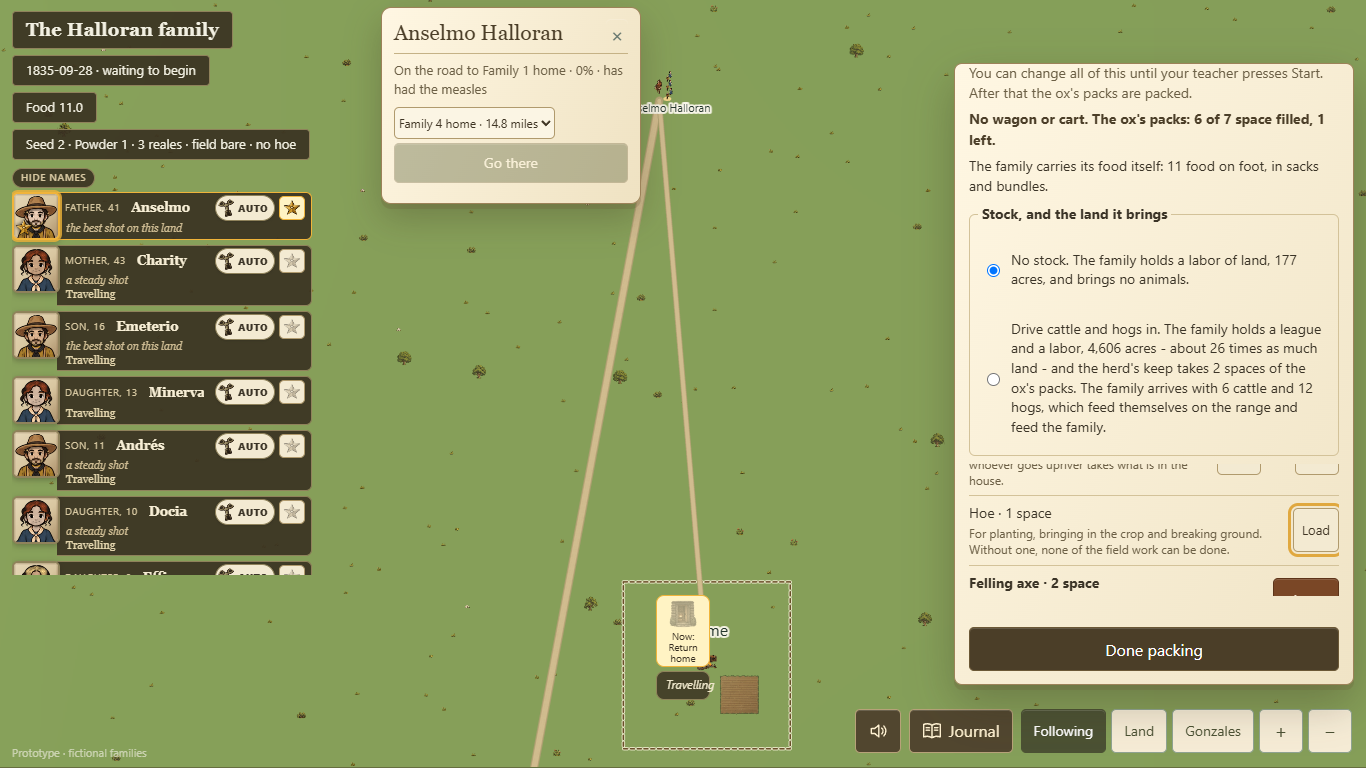
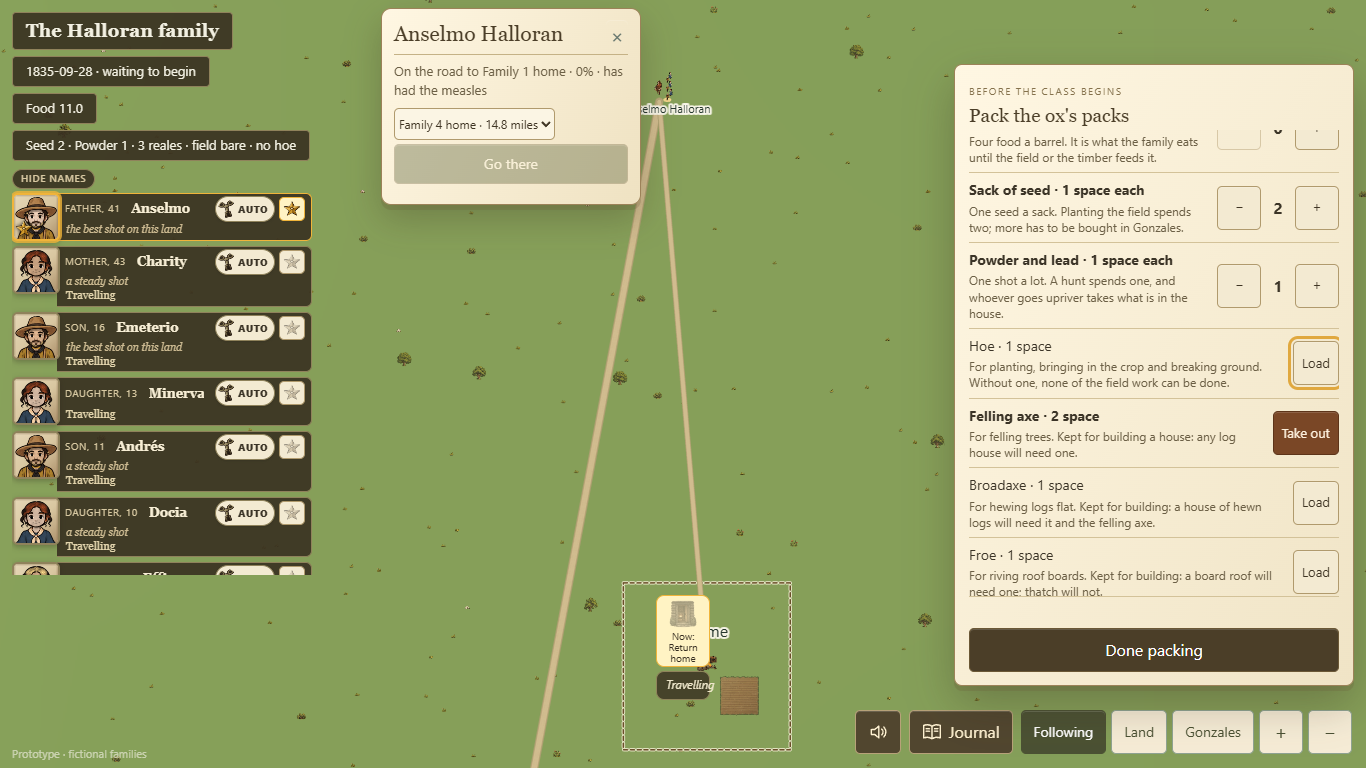
Done packing back on its own card: the wagon's middle scrolls, not the whole card
npm run test:creation-screen failed at 1366x768 with Done packing 58px below the
card's fold (also on v2026.09.29.1). The overlap work (d29a4ff3) made the whole
wagon card scroll on screens over 760px, with the list held at 132px inside it.
The words, stock choice and load now scroll together in #wagon-body; the heading,
refusal line and Done packing stay in the card's foot. Card place and size unchanged.

The proof's title heading follows the 2026-09-27 redesign (d08e28c1): "Who will
your family be?". That stale heading had been failing the proof at its first step
and hid the wagon regression.

diff --git a/public/style.css b/public/style.css
@@ -548,7 +548,11 @@ body[data-panel=true] #house-plan,body[data-panel=true] #house-plot{z-index:13}
 #wagon-load p{margin:6px 0 0;font-size:14px;line-height:1.45}
 #wagon-room{font-weight:650;color:#4b3e28}
 #wagon-load>*{flex:none}
-#wagon-items{list-style:none;margin:8px 0 0;padding:0;overflow-y:auto;min-height:0;flex:1 1 auto}
+/* One scroller, between the title and the foot: the words, the stock choice and the load scroll together, and the refusal
+   line and "Done packing" stay on the card at every size. The whole card scrolling put Done 58px below its own fold at
+   1366x768 (npm run test:creation-screen, 2026-09-29); the list scrolling alone was squeezed to nothing at 1280x689. */
+#wagon-load>#wagon-body{flex:1 1 auto;min-height:0;overflow-y:auto;overscroll-behavior:contain;border-bottom:1px solid #d3c299}
+#wagon-items{list-style:none;margin:8px 0 0;padding:0}
 #wagon-items li{display:grid;grid-template-columns:1fr auto;gap:2px 10px;align-items:center;padding:7px 0;border-top:1px solid #d3c299}
 #wagon-items li[data-loaded=true] .wagon-name{font-weight:650}
 .wagon-name{font-size:14px;color:#3b3427}
@@ -1261,10 +1265,8 @@ body[data-creating=true] #away>button{min-height:50px;background:#355243;border-
   body[data-lesson=true] #call-menu{max-height:min(62vh,520px,calc(100% - 18px - var(--lesson-room,116px) - var(--right-foot,74px)))}
   /* Packing the wagon stood over the whole family and the status lines above it - the food and the seed it is packed
      against. The lobby has nothing else down the right. */
-  #wagon-load{left:auto;right:12px;top:64px;max-height:calc(100% - 72px - var(--right-foot,74px));overflow-y:auto}
-  /* Short, the panel scrolls as a whole and keeps a few rows of the load in sight: its list was squeezed to nothing and
-     "Done packing" cut off below the fold at 1280x689 (overflow hidden, no scroll). */
-  #wagon-items{min-height:132px}
+  #wagon-load{left:auto;right:12px;top:64px;max-height:calc(100% - 72px - var(--right-foot,74px))}
+  /* Short, the card does not scroll as a whole: `#wagon-body` scrolls inside it and "Done packing" keeps its foot. */
   /* The walk-through stands above the bar, not across its right-hand icons (1024x600). */
   #tutorial{bottom:calc(var(--bar-room,132px) + 8px)}
   /* The small print about the map, from under the map's buttons (they reach the middle at 1024) to the bottom left, which

diff --git a/public/index.html b/public/index.html
@@ -404,6 +404,10 @@
            said all along ("more has to be bought in Gonzales"). What cannot be bought back is the things for the house.
            And the panel never said the choice closes the moment the teacher presses Start (`wagonProjection` sends
            nothing once the class runs). Both corrected 2026-09-21. -->
+      <!-- Everything between the title and Done packing scrolls here, and only here: the heading, the refusal line and the
+           button stay put, so "Done packing" is on the card as it opens at every size (2026-09-29; the whole card
+           scrolled and put it 58px below its own fold at 1366x768). -->
+      <div id="wagon-body">
       <p id="wagon-load-text">What you load is what the family arrives with. Tools, seed and powder can be bought in a
         town later, if there is coin; the things for the house cannot be bought anywhere.</p>
       <p id="wagon-when">You can change all of this until your teacher presses Start. After that the wagon is packed.</p>
@@ -418,6 +422,7 @@
         <p id="wagon-stock-why" role="alert"></p>
       </fieldset>
       <ul id="wagon-items"></ul>
+      </div>
       <p id="wagon-note" role="alert"></p>
       <button type="button" id="wagon-done">Done packing</button>
     </section>

diff --git a/HANDOFF.md b/HANDOFF.md
@@ -1,5 +1,32 @@
 # Claude handoff — Astra foundation
 
+## "Done packing" back on its own card at 1366x768, and the creation-screen proof green again — 2026-09-29 (not released)
+
+Branch `wagon-done-fold` off origin/main (3dd5209d); not pushed. `npm run test:creation-screen` failed at 1366x768 - *"the
+button that ends the wagon at 1366x768 step is below the fold of its own card: #wagon-done "Done packing" is 58px past it"* -
+and on the released v2026.09.29.1 too.
+
+- **Cause.** The overlap work (d29a4ff3, 2026-09-28) moved packing the wagon to the right and, on screens wider than 760px,
+  made the *whole card* scroll (`overflow-y:auto`) with the list held open at `min-height:132px`. The words, the stock choice
+  (252px) and 132px of list stood above Done, so Done sat 58px under the card's fold at 1366x768 (177px at 1024x768), with the
+  list scrolling inside a card that scrolled. The proof did not say so on the day because it was already failing at its first
+  step: the title was redesigned the evening before (d08e28c1, `#creation-begin-title` *"Who will your family be?"*) and the
+  proof still expected *"Your family"*. The last green evidence was 00d76e7f (2026-09-27), before both.
+- **Fix** (`public/index.html`, `public/style.css`). Everything between the title and Done - the words, the stock choice and
+  the load - is in one scroller, `#wagon-body`; the heading, the refusal line (`#wagon-note`) and **Done packing** stay put in
+  the card's foot, which no longer scrolls as a whole. The list no longer scrolls by itself (one scroller, not two). The card's
+  place and size are unchanged, so nothing the overlap proof measures moved. The proof's title heading now expects *"Who will
+  your family be?"*.
+
+**Evidence** (same computer only; no Chromebook, LAN or classroom claim). `test:creation-screen` with only the heading
+corrected: **fails**, Done 58px past the fold at 1366x768; with the fix: **4 checks, 24 step-and-size measurements, pass**
+(Done 14px inside the card at 1366x768, 1024x768 and 390x844). Injected on the fixed tree - the card scrolling as a whole
+again (panel `overflow-y:auto`, `#wagon-body` not scrolling) - it fails with the same message (Done 1015px past the fold),
+then passes with the injection removed. `test:creation` 10 checks pass; `test:overlap` 167 screens / 31 states / 0 faults
+(the card's place and size unchanged; its evidence file not re-committed, to keep the merge small); the node tests that read the page or the wagon (`creation-words`, `creation`,
+`family-column`, `surname`, `wagon-load`, `classroom-doors`, `asset-http`, `lobby-ready`) 38 of 38; `npm test` **1737 tests,
+1701 pass, 0 fail, 36 skipped** (the suspended tutorial).
+
 ## The empty class pauses itself, any played family can win, the lobby shows who is ready — owner, 2026-09-29 (not released)
 
 Branch `owner-pause-win-lobby`, off origin/main (0ffa9663) with `audit-triage-2026-09-29` merged in; not pushed. The owner's
